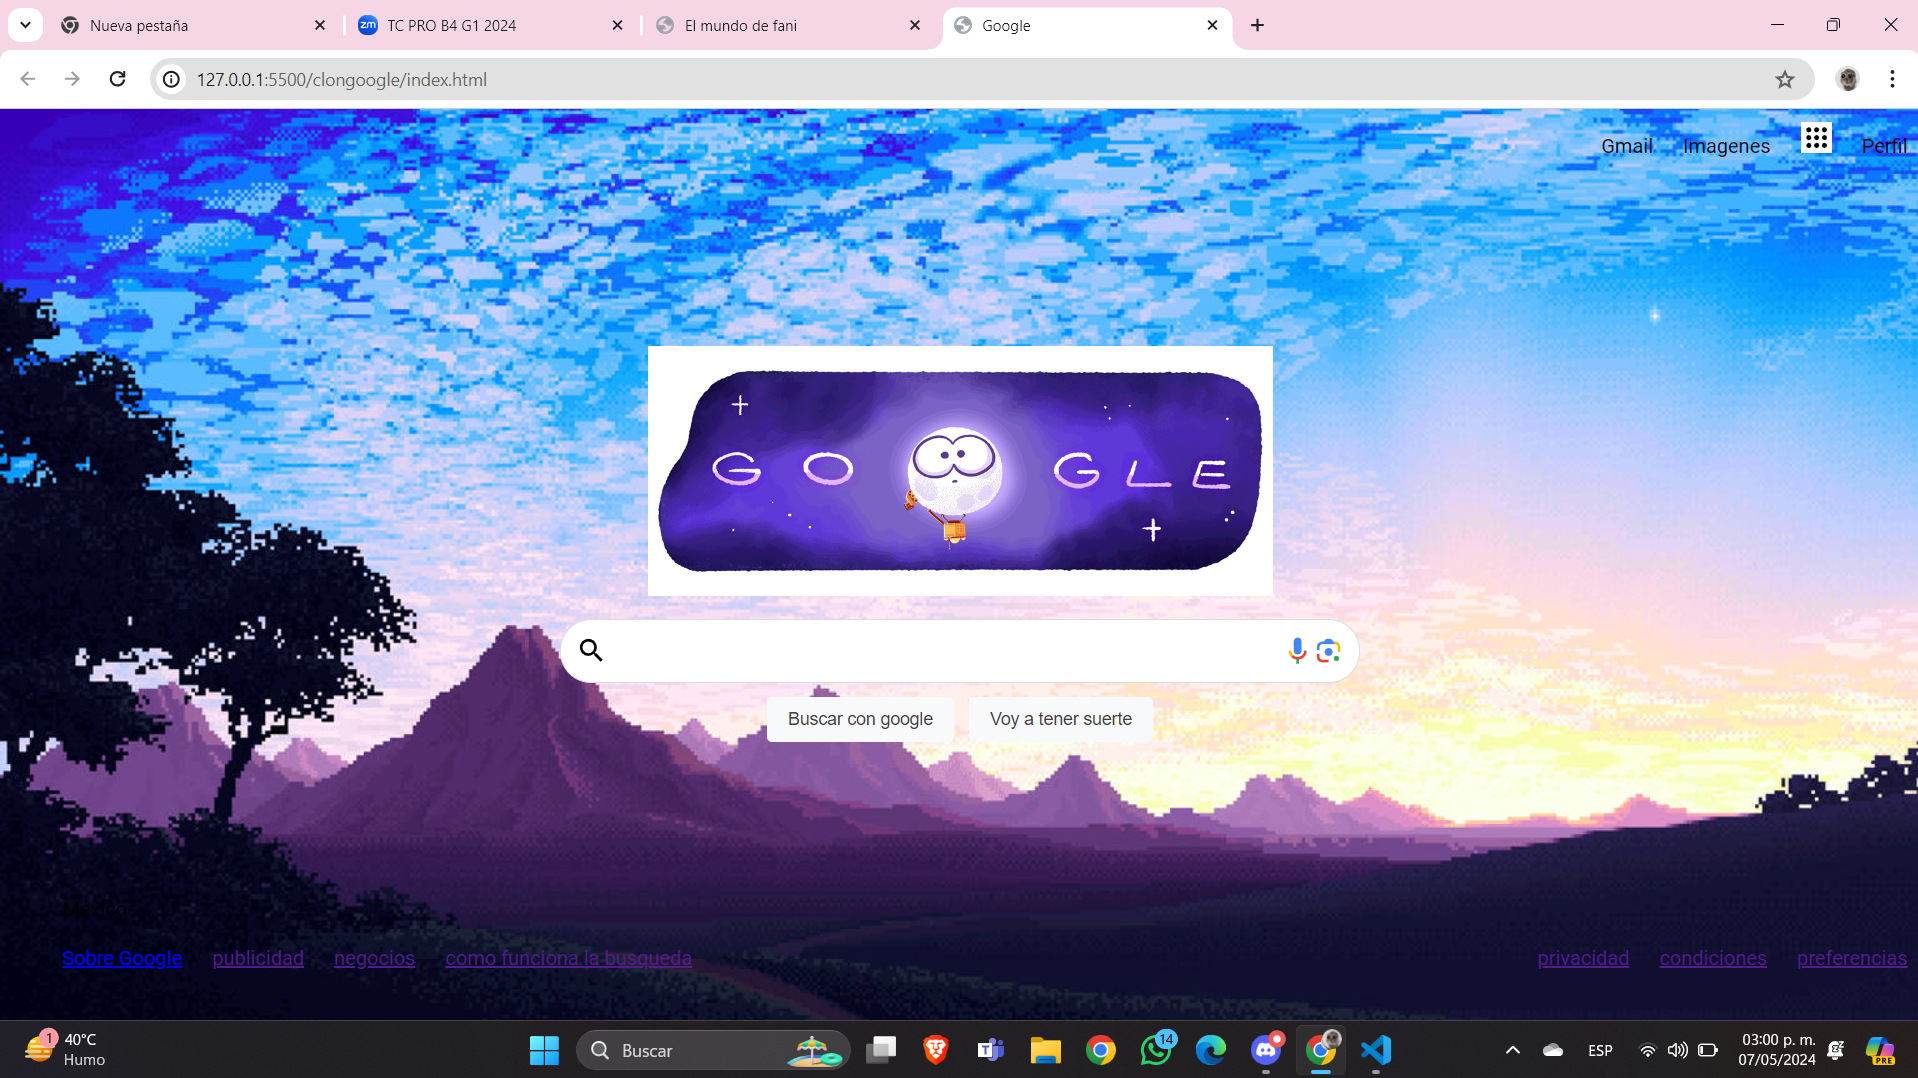
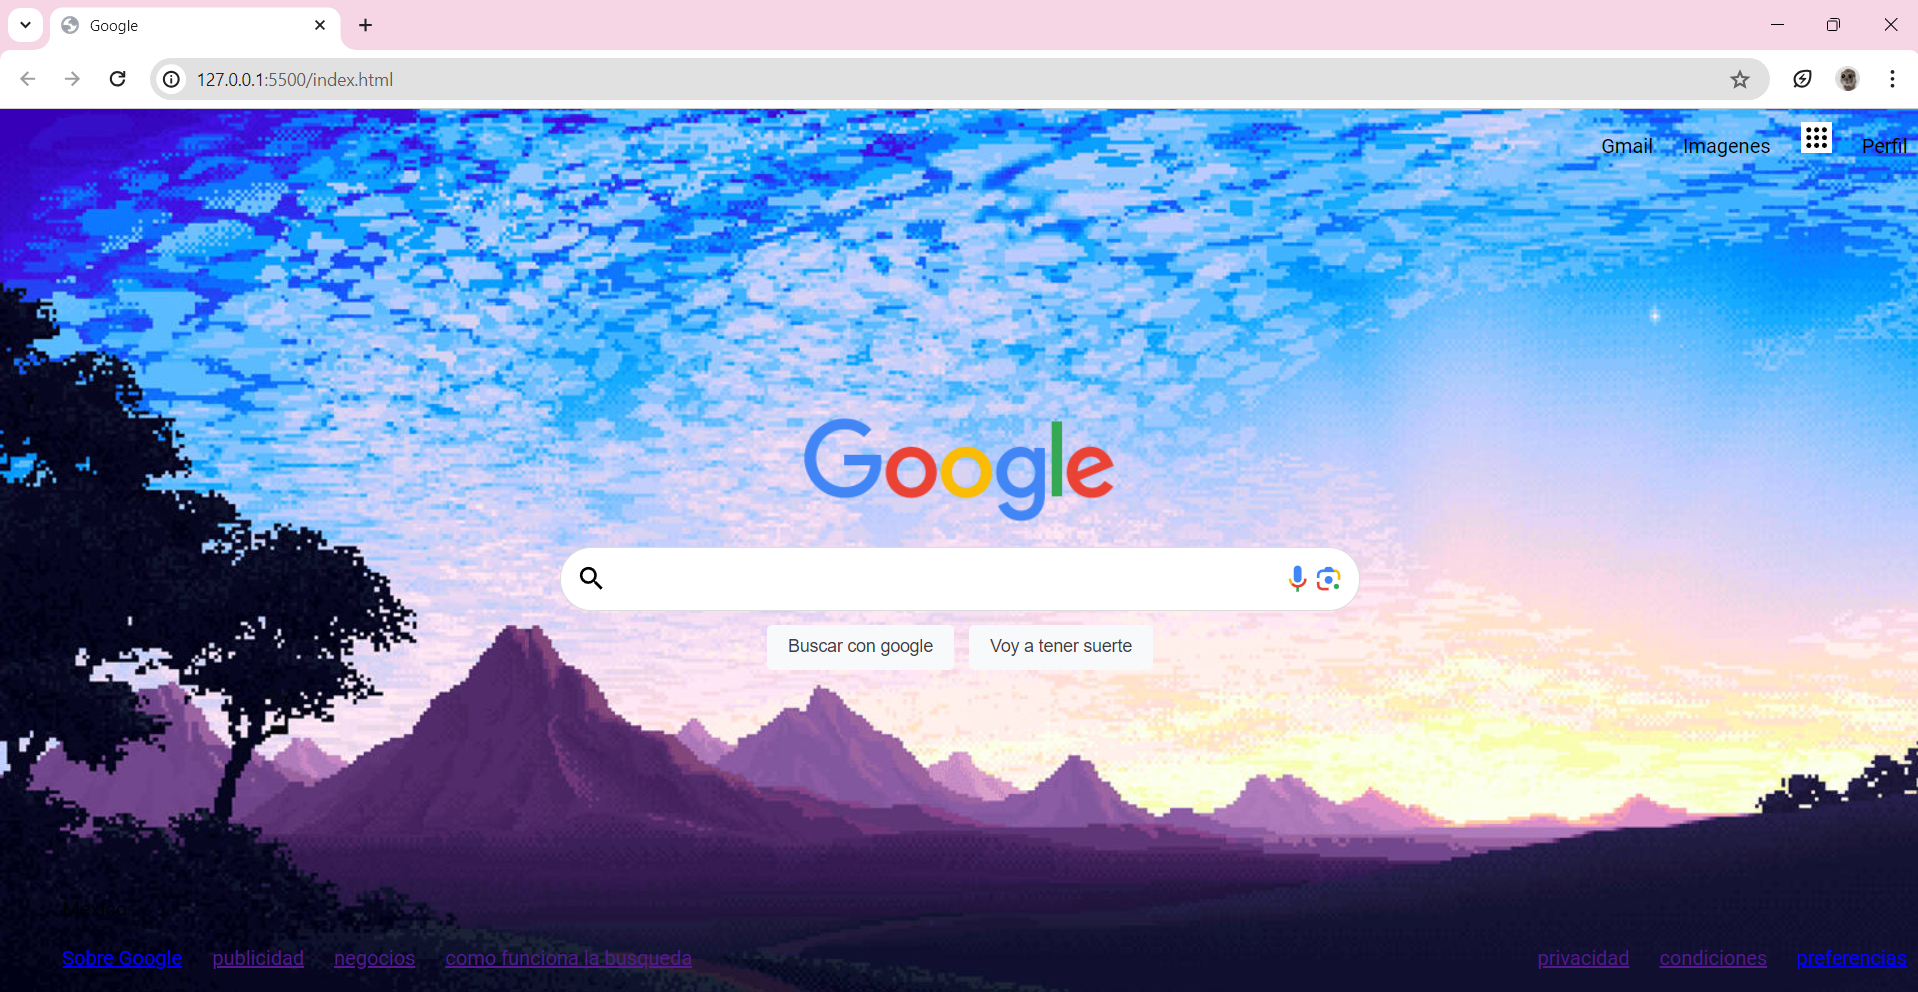
Add files via upload

diff --git a/index.html b/index.html
@@ -42,7 +42,7 @@
 
     <main>
         <div id="logo">
-            <img width="500" src="logoe.gif" alt="logo de google">
+            <img width="250" src="logoo.png" alt="logo de google">
 
         </div>
 <div id="contenedor-buscador">

diff --git a/style.css b/style.css
@@ -11,6 +11,7 @@ header {
 
     min-height: 10vh;
     font-size: 14;
+
 }
 
 main {

diff --git a/Readme.md b/Readme.md
@@ -14,3 +14,7 @@ Este proyecto implicó la creación de un sitio web que imita la apariencia de G
 
 * Sección de inicio.
 ![Sección Yo](google.png)
+
+- Créditos
+
+* Agradezco al curso de Technolochicas PRO
